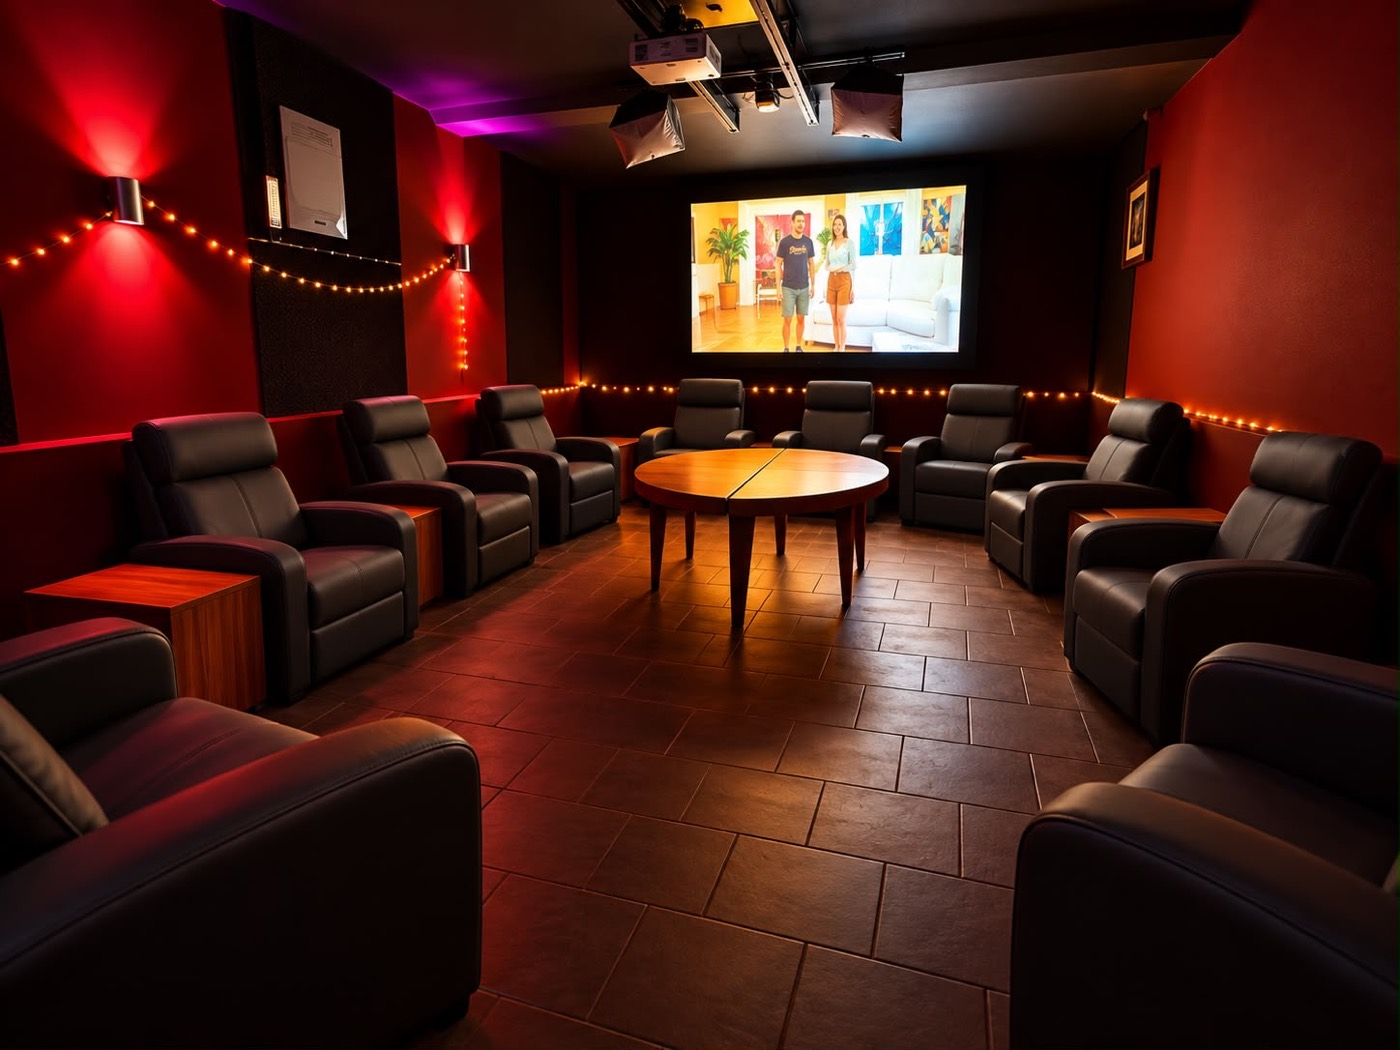
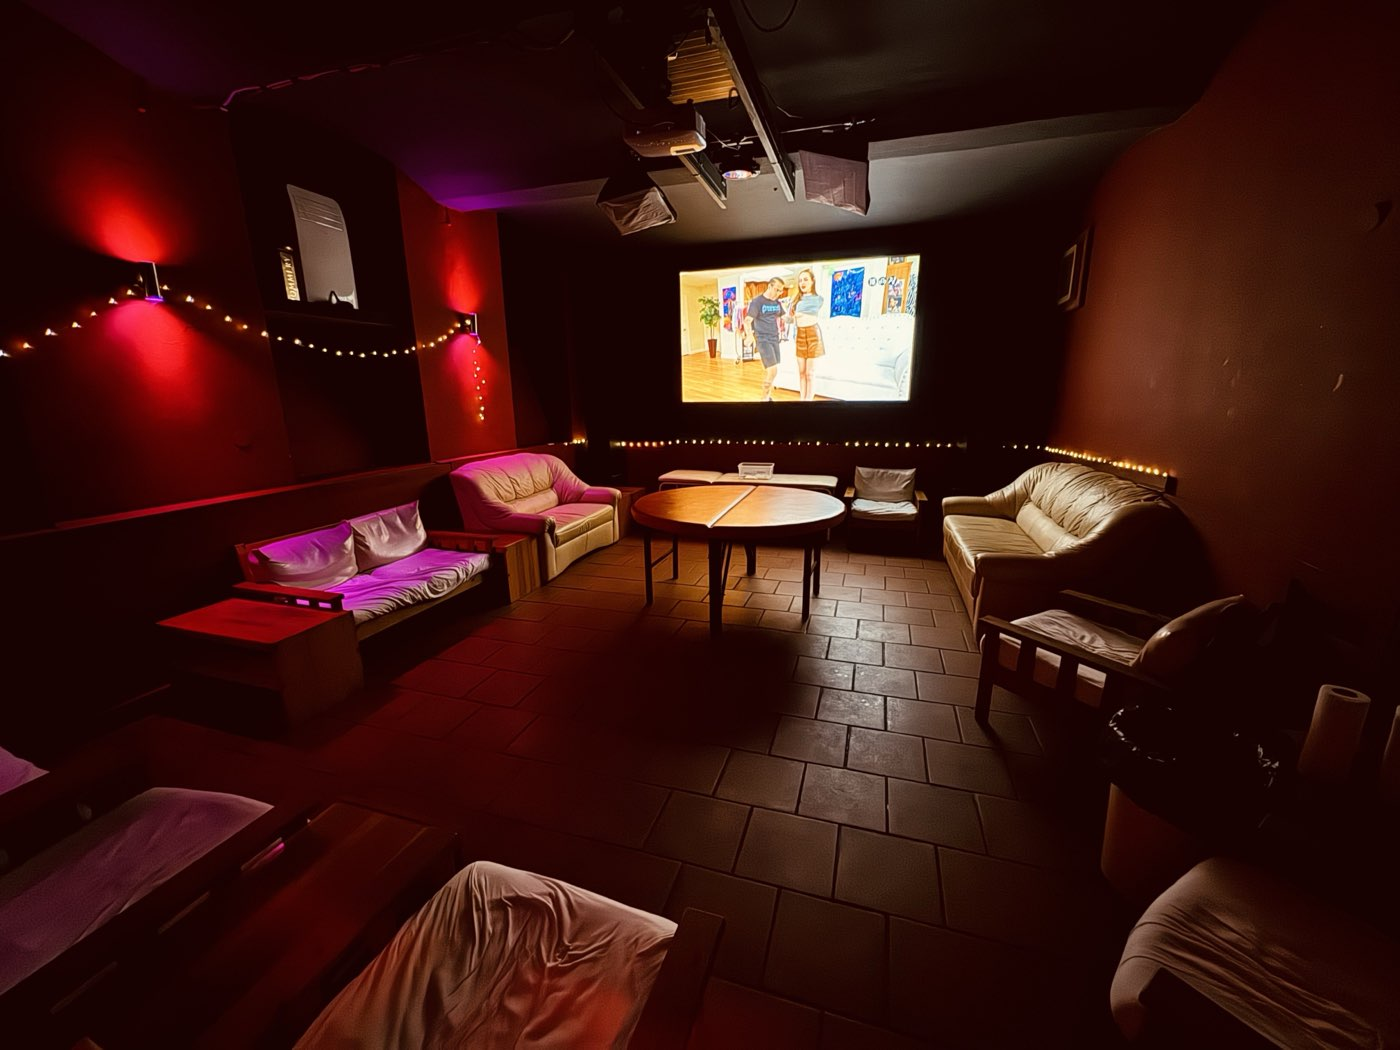
Lovekino: neues Foto als Titelbild, Kinosaal wieder mit Originalfoto

diff --git a/Munkák/Lovekino/index.html b/Munkák/Lovekino/index.html
@@ -85,7 +85,7 @@
 <link rel="preconnect" href="https://fonts.gstatic.com" crossorigin="">
 <link rel="stylesheet" media="print" onload="this.media='all'" href="https://fonts.googleapis.com/css2?family=Manrope:wght@400;500;600;700;800&amp;display=swap">
 <script type="application/ld+json">
-{"@context":"https://schema.org","@type":"MovieTheater","name":"Lovekino","foundingDate":"1979","telephone":"+4318171648","email":"office@lovekino.at","url":"https://lovekino.at/","image":"img/hero.webp",
+{"@context":"https://schema.org","@type":"MovieTheater","name":"Lovekino","foundingDate":"1979","telephone":"+4318171648","email":"office@lovekino.at","url":"https://lovekino.at/","image":"img/hero-kino.jpg",
 "address":{"@type":"PostalAddress","streetAddress":"Michael-Bernhard-Gasse 13","postalCode":"1120","addressLocality":"Wien","addressCountry":"AT"},
 "openingHoursSpecification":[{"@type":"OpeningHoursSpecification","dayOfWeek":"Monday","opens":"12:00","closes":"15:00"},{"@type":"OpeningHoursSpecification","dayOfWeek":"Wednesday","opens":"12:00","closes":"22:00"},{"@type":"OpeningHoursSpecification","dayOfWeek":["Thursday","Friday","Saturday","Sunday"],"opens":"17:00","closes":"23:59"}]}
 </script>
@@ -503,7 +503,7 @@
 
   <!-- ===== Hero ===== -->
   <section class="hero">
-    <div class="hero-photo"><img src="img/hero.webp" alt="Lovekino Wien – Kinobar mit bunter Beleuchtung" width="1698" height="926" fetchpriority="high"></div>
+    <div class="hero-photo"><img src="img/hero-kino.jpg" alt="Lovekino Wien – Kinosaal mit Leinwand, Ledersesseln und Lichterketten" width="1448" height="1086" fetchpriority="high"></div>
     <div class="wrap"><div class="hero-body">
       <p class="hero-kicker" data-i18n="heroKicker">Wien-Meidling · seit 1979</p>
       <h1 data-i18n-html="heroTitle">Erotikkino <span>Lovekino.</span></h1>
@@ -540,7 +540,7 @@
   <section class="story" id="story" aria-label="Das Kino">
     <div class="st-media">
       <div class="st-stage">
-        <img class="st-img on" fetchpriority="low" src="img/kino.jpg" alt="Kinosaal mit Leinwand, Ledersesseln und Lichterketten" width="1400" height="1050">
+        <img class="st-img on" fetchpriority="low" src="img/kino.jpg" alt="Kinosaal mit Leinwand, Sofas und Lichterketten" width="1400" height="1050">
         <img class="st-img" src="img/bar.jpg" alt="Die Bar des Lovekino von oben" width="1500" height="844">
         <img class="st-img" src="img/loverooms.jpg" alt="Kuschelzimmer mit großem Bett und rotem Licht" width="1195" height="1300">
         <img class="st-img" src="img/themenabende.jpg" alt="Erotische Kunst an der Wand im Lovekino" width="1400" height="1050" loading="lazy">
